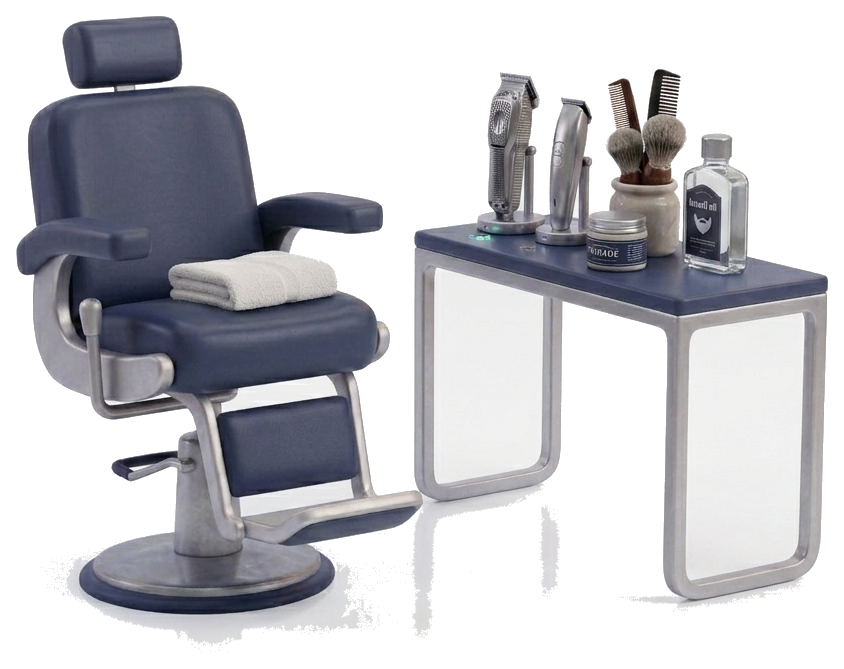
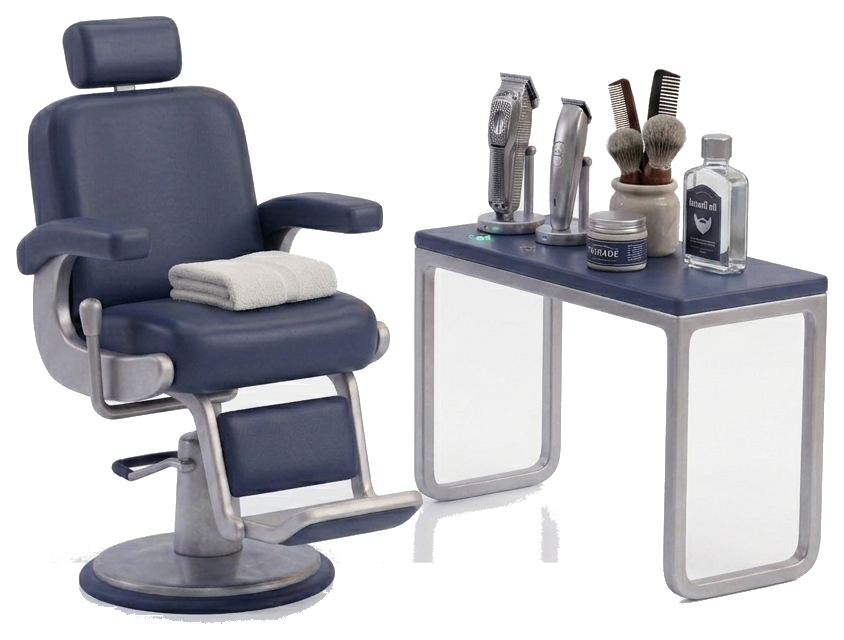
Yozuvlar sticker: clean up the ragged bottom cut + sit it slightly lower
The floor reflections at the bottom of the station render sat just under the
main strip threshold, so the first cut left ragged half-kept gray remnants
under the chair base and between the table legs. strip_floor.dart now runs a
second flood from the already-cleared region with a lower bar, restricted to
the bottom band (y > 0.76h), so the remnants clear while the chair/table/tools
above stay untouched. Also nudge the tile sticker down 8px (stickerDy).

diff --git a/tool/strip_floor.dart b/tool/strip_floor.dart
@@ -85,6 +85,41 @@ void main() {
     }
   }
 
+  // Second pass — the floor reflections at the BOTTOM sit just under the main
+  // threshold, so the first flood cut them raggedly (half kept, half cleared).
+  // Flood again from the already-cleared region with a lower bar, but ONLY
+  // inside the bottom band, so the subject higher up (chair, table, tools)
+  // is untouched.
+  final bandY = (h * 0.76).round();
+  bool isBgBottom(int x, int y) {
+    if (y < bandY) return false;
+    final p = image.getPixel(x, y);
+    final r = p.r.toDouble(), g = p.g.toDouble(), b = p.b.toDouble();
+    final lum = 0.299 * r + 0.587 * g + 0.114 * b;
+    final sat = [r, g, b].reduce(max) - [r, g, b].reduce(min);
+    return lum > 202 && sat < 18;
+  }
+
+  for (var y = bandY; y < h; y++) {
+    for (var x = 0; x < w; x++) {
+      if (removed[y * w + x]) stack.add(y * w + x);
+    }
+  }
+  while (stack.isNotEmpty) {
+    final i = stack.removeLast();
+    final x = i % w, y = i ~/ w;
+    for (final d in dirs) {
+      final nx = x + d[0], ny = y + d[1];
+      if (nx < 0 || ny < 0 || nx >= w || ny >= h) continue;
+      final ni = ny * w + nx;
+      if (removed[ni]) continue;
+      if (isBgBottom(nx, ny)) {
+        removed[ni] = true;
+        stack.add(ni);
+      }
+    }
+  }
+
   for (var i = 0; i < removed.length; i++) {
     if (removed[i]) image.setPixelRgba(i % w, i ~/ w, 0, 0, 0, 0);
   }

diff --git a/lib/presentation/screens/home/home_screen.dart b/lib/presentation/screens/home/home_screen.dart
@@ -794,6 +794,7 @@ class _QuickActions extends StatelessWidget {
                   sub: L.quickCutsSub,
                   asset: 'assets/tiles/cuts.png',
                   stickerScale: 1.25,
+                  stickerDy: 8,
                   onTap: onCuts,
                 ),
               ),
